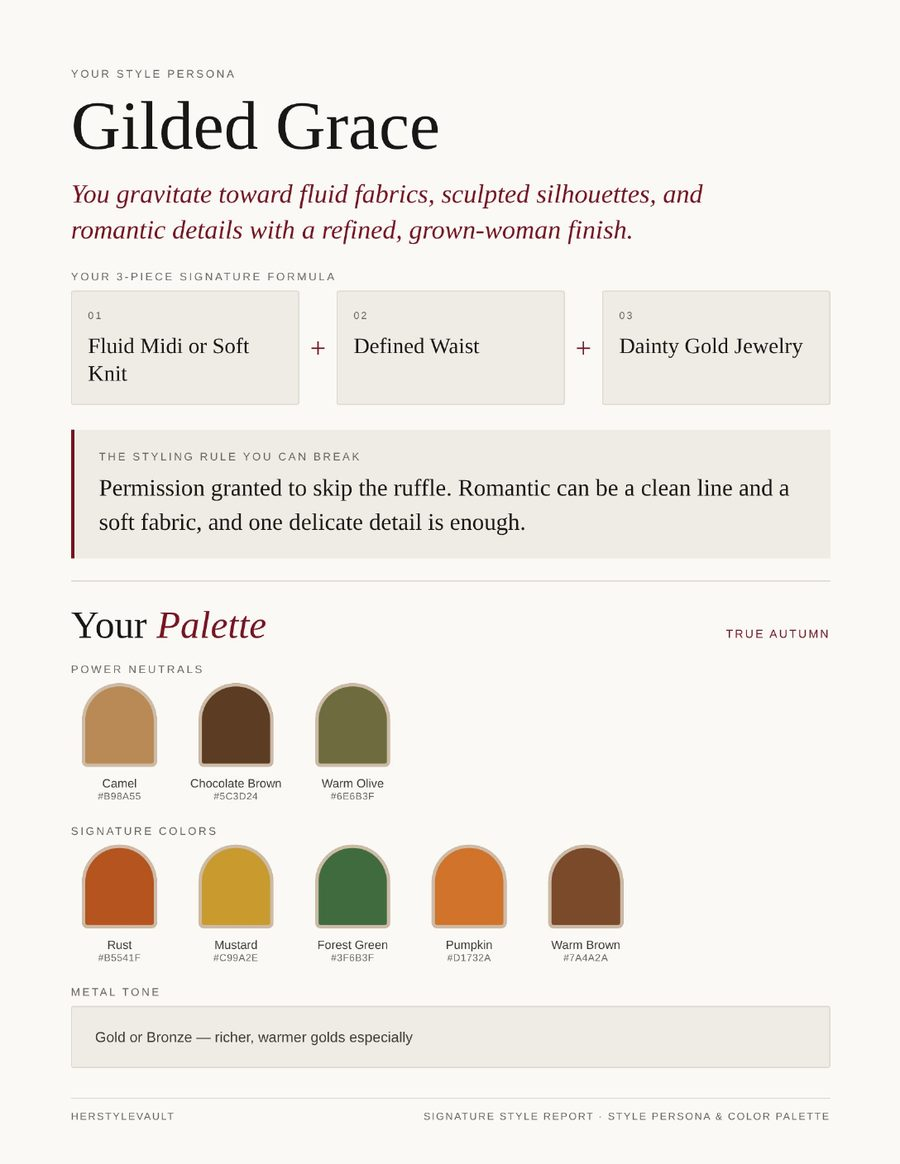
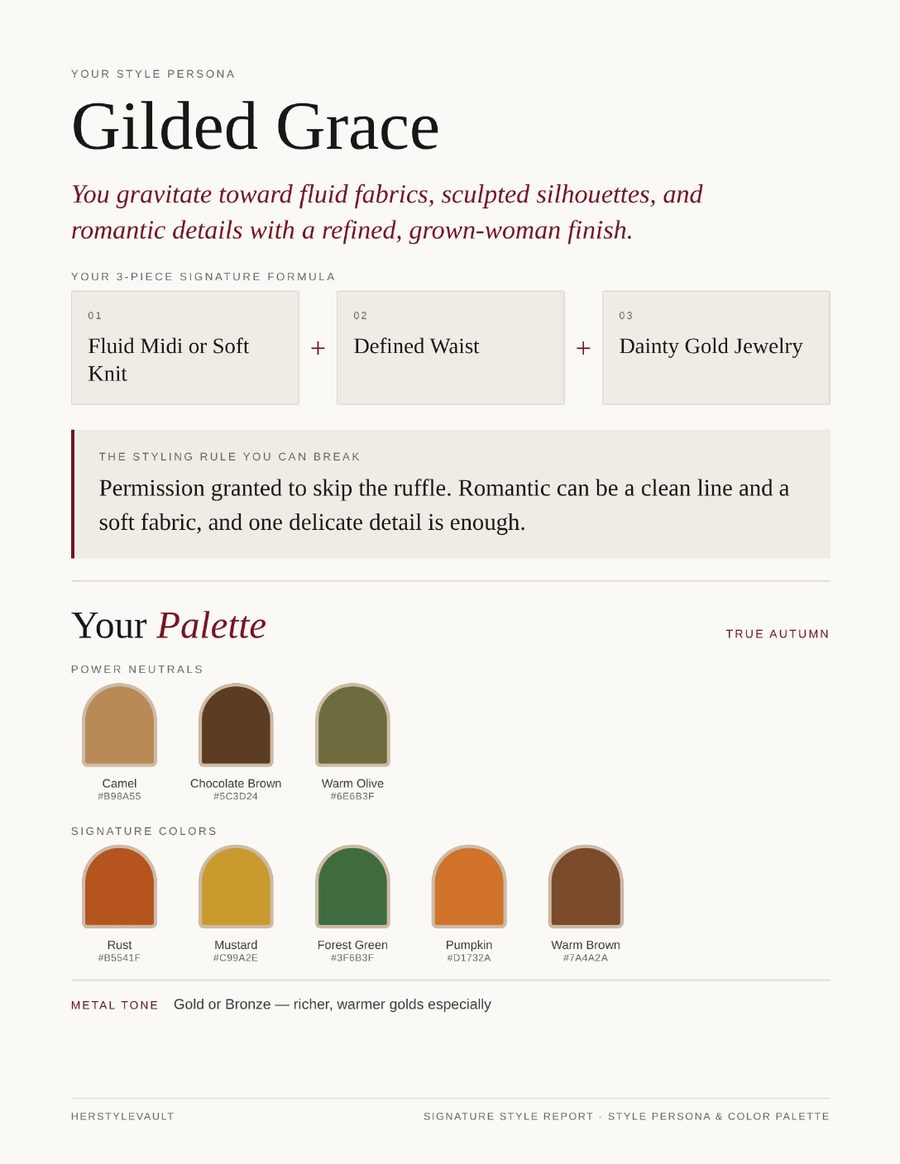
Signature report: tighter sections so every profile fits 6 pages; refresh sneak peek images
Claude-Session: https://claude.ai/code/session_01FUdN8BrrqRcBgv91ujUewX

Changed region(s): [[0.0622, 0.8351, 0.5289, 0.8969]]

diff --git a/analysis-results.html b/analysis-results.html
@@ -46,7 +46,7 @@ body{background:var(--surface);color:var(--ink);font-family:var(--font-body);pad
 .pdf-h1 em{color:#7A1321;font-style:italic;}
 .pdf-section-label{font-size:0.62rem;letter-spacing:0.2em;text-transform:uppercase;color:#6B6862;font-weight:500;margin:1.3rem 0 0.5rem;}
 .pdf-box{background:#EFECE6;border:1px solid #DCD8D0;border-radius:2px;padding:1rem 1.3rem;margin-bottom:0.9rem;font-size:0.82rem;line-height:1.7;color:#3F3C38;}
-.pdf-chip-store{color:#8A8378;font-size:0.9em;}.pdf-two{display:grid;grid-template-columns:1fr 1fr;gap:0 28px;}.pdf-blk-n{margin-top:20px;padding-top:20px;border-top:1px solid #DCD8D0;}.pdf-pal-head{display:flex;justify-content:space-between;align-items:baseline;margin-bottom:0.9rem;}.pdf-pal-tag{font-size:0.66rem;letter-spacing:0.16em;text-transform:uppercase;color:#7A1321;font-weight:500;}
+.pdf-chip-store{color:#8A8378;font-size:0.9em;}.pdf-three{display:grid;grid-template-columns:1fr 1fr 1fr;gap:12px;margin-bottom:0.3rem;}.pdf-three .pdf-box{margin-bottom:0;padding:0.8rem 0.95rem;font-size:0.78rem;line-height:1.6;}.pdf-metal{margin:1rem 0 0;font-size:0.82rem;color:#3F3C38;border-top:1px solid #DCD8D0;padding-top:0.8rem;}.pdf-metal span{display:inline-block;font-size:0.64rem;letter-spacing:0.16em;text-transform:uppercase;color:#7A1321;font-weight:500;margin-right:0.8rem;}.pdf-two{display:grid;grid-template-columns:1fr 1fr;gap:0 28px;}.pdf-blk-n{margin-top:20px;padding-top:20px;border-top:1px solid #DCD8D0;}.pdf-pal-head{display:flex;justify-content:space-between;align-items:baseline;margin-bottom:0.9rem;}.pdf-pal-tag{font-size:0.66rem;letter-spacing:0.16em;text-transform:uppercase;color:#7A1321;font-weight:500;}
 .pdf-list{list-style:none;padding:0;margin:0;}
 .pdf-list li{padding:0.35rem 0;font-size:0.82rem;line-height:1.55;color:#3F3C38;border-bottom:1px solid #DCD8D0;}
 .pdf-list li:last-child{border-bottom:none;}
@@ -201,15 +201,15 @@ function makeBlocks(r){
   const img=CROQ_CACHE[croqKey(r.bodyShapeKey,b)]||'';const CL=croqLabelPos(b);
   const L=[];
   if(r.personaAnswered&&r.persona){const ps=r.persona;L.push({key:'persona',label:'Style Persona',html:'<p class="pdf-section-label" style="margin-top:0;">Your Style Persona</p><div class="pdf-persona-name">'+esc(ps.name)+'</div><p class="pdf-persona-tag">'+esc(ps.tagline)+'</p><p class="pdf-section-label">Your 3-Piece Signature Formula</p><div class="pdf-formula">'+ps.formula.map((f,i)=>(i?'<span class="pdf-plus">+</span>':'')+'<div class="pdf-fbox"><span class="pdf-fnum">0'+(i+1)+'</span>'+esc(f)+'</div>').join('')+'</div><div class="pdf-rulebox"><p class="pdf-section-label" style="margin-top:0;">The Styling Rule You Can Break</p><p>'+esc(ps.rule)+'</p></div>'});}
-  L.push({key:'palette',label:'Color Palette',html:'<div class="pdf-pal-head"><h1 class="pdf-h1" style="margin:0;">Your <em>Palette</em></h1><span class="pdf-pal-tag">'+esc(season)+'</span></div><p class="pdf-section-label" style="margin-top:0;">Power Neutrals</p>'+arches(neu)+'<p class="pdf-section-label">Signature Colors</p>'+arches(sig)+'<p class="pdf-section-label">Metal Tone</p><div class="pdf-box">'+esc(r.metal)+'</div>'});
+  L.push({key:'palette',label:'Color Palette',html:'<div class="pdf-pal-head"><h1 class="pdf-h1" style="margin:0;">Your <em>Palette</em></h1><span class="pdf-pal-tag">'+esc(season)+'</span></div><p class="pdf-section-label" style="margin-top:0;">Power Neutrals</p>'+arches(neu)+'<p class="pdf-section-label">Signature Colors</p>'+arches(sig)+'<p class="pdf-metal"><span>Metal tone</span>'+esc(r.metal)+'</p>'});
   L.push({key:'colortype',label:'Color Analysis',html:'<div class="pdf-colorband"><p class="pdf-section-label">Color Type</p><h1>You\'re a <em>'+esc(season)+'</em></h1></div>'
-    +'<div class="pdf-box"><p class="pdf-section-label" style="margin-top:0;">Color Type Identified</p><h2 class="pdf-h1" style="font-size:1.25rem;">'+esc(season)+'</h2>'+esc(r.seasonDesc)+'</div>'
+    +'<div class="pdf-box">'+esc(r.seasonDesc)+'</div>'
     +'<p class="pdf-section-label">Why This Is You</p><div class="pdf-box">'+esc(r.narrative)+'</div>'});
   L.push({key:'guidance',label:'Color Guidance',html:'<h1 class="pdf-h1" style="margin-top:0;">Accessories &amp; <em>Avoid</em></h1><p class="pdf-section-label" style="margin-top:0;">Accessory Color Guide</p><div class="pdf-box">'+esc(r.accessory)+'</div><div class="pdf-two"><div><p class="pdf-section-label">Colors to Avoid</p><div class="pdf-box">'+esc(r.colorAvoid)+'</div></div><div><p class="pdf-section-label">Step Back From</p><div class="pdf-box">'+esc(r.avoidText)+'</div></div></div>'});
   L.push({key:'body',label:'Body Analysis',html:'<p class="pdf-section-label" style="margin-top:0;">Body Shape</p><div class="pdf-bodyrow"><div class="pdf-croq"><img src="'+img+'"/><span class="pdf-croq-lbl" style="top:'+CL.sh.toFixed(1)+'%">Shoulders</span><span class="pdf-croq-lbl" style="top:'+CL.waist.toFixed(1)+'%">Waist</span><span class="pdf-croq-lbl" style="top:'+CL.hip.toFixed(1)+'%">Hips</span></div>'
     +'<div class="pdf-bodycol"><h1 class="pdf-h1" style="margin:0 0 0.7rem;">'+esc(shapeTitle(r))+'</h1><div class="pdf-box">'+esc(r.bodyShapeDesc)+'</div><p class="pdf-section-label">Why This Is You</p><div class="pdf-box">'+esc(r.bodyNarrative)+'</div><p class="pdf-section-label">Styling Goal</p><div class="pdf-box" style="font-style:italic;">'+esc(r.bodyGoal)+'</div></div></div>'
     +'<p class="pdf-section-label">Tops &amp; Necklines</p>'+pdfList((r.bodyGuide.tops||[]).slice(0,4))});
-  L.push({key:'silh',label:'Silhouettes & Shopping',html:'<h1 class="pdf-h1" style="margin-top:0;font-size:1.7rem;">Silhouettes &amp; <em>Shopping</em></h1><p class="pdf-section-label" style="margin-top:0;">Best Silhouettes For Your Shape</p>'+(r.silhouettes||[]).map(s=>'<div class="pdf-box" style="margin-bottom:0.7rem;"><strong>'+esc(s.text)+'</strong><br>'+esc(s.reason)+'</div>').join('')
+  L.push({key:'silh',label:'Silhouettes & Shopping',html:'<h1 class="pdf-h1" style="margin-top:0;font-size:1.7rem;">Silhouettes &amp; <em>Shopping</em></h1><p class="pdf-section-label" style="margin-top:0;">Best Silhouettes For Your Shape</p>'+'<div class="pdf-three">'+(r.silhouettes||[]).map(s=>'<div class="pdf-box"><strong>'+esc(s.text)+'</strong><br>'+esc(s.reason)+'</div>').join('')+'</div>'
     +'<div class="pdf-two"><div><p class="pdf-section-label">Bottoms</p>'+pdfList((r.bodyGuide.bots||[]).slice(0,4))+'</div><div><p class="pdf-section-label">Shop Your Colors &amp; Cuts</p><p style="font-size:0.74rem;color:#8A8378;margin:0 0 0.4rem;">Each link opens a live search at a store in your price range, so results stay current.</p>'+shopChips(r)+'</div></div>'});
   L.push({key:'fab',label:'Fabric Guide',html:'<h1 class="pdf-h1" style="margin-top:0;font-size:1.7rem;">Fabric, Avoid &amp; <em>Accessories</em></h1><div class="pdf-two"><div><p class="pdf-section-label" style="margin-top:0;">Best Fabrics</p><div class="pdf-box">'+esc(r.bodyGuide.fabGood)+'</div></div><div><p class="pdf-section-label" style="margin-top:0;">Fabrics To Avoid</p><div class="pdf-box">'+esc(r.bodyGuide.fabAvoid)+'</div></div></div>'
     +'<div class="pdf-two"><div><p class="pdf-section-label">Things To Minimize</p>'+pdfList(r.bodyGuide.avd)+'</div><div><p class="pdf-section-label">Accessory Styling Guide</p>'+pdfList(r.bodyGuide.acc)+'</div></div>'});
